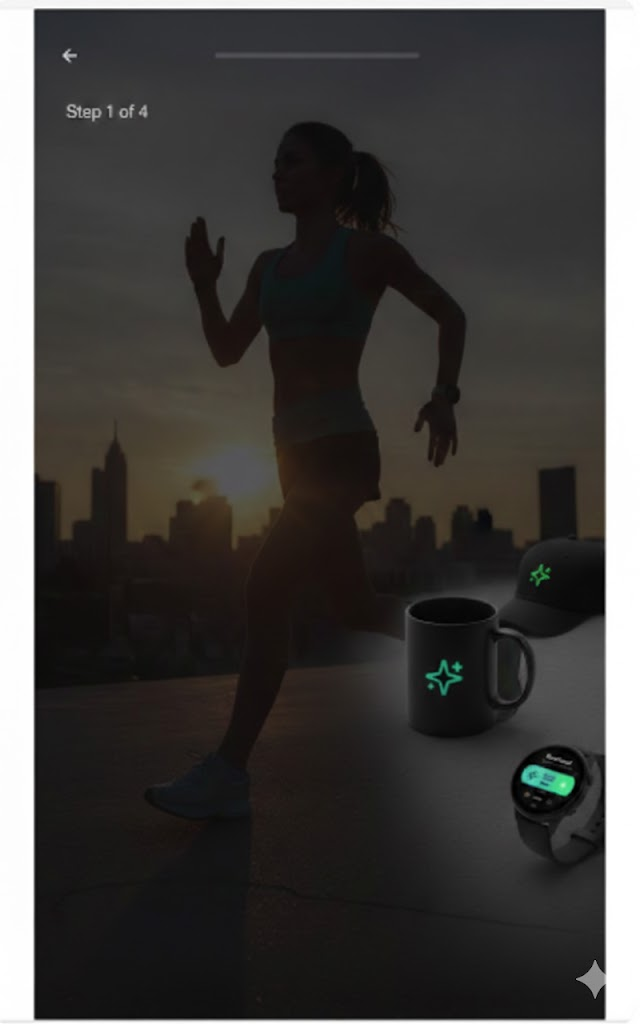
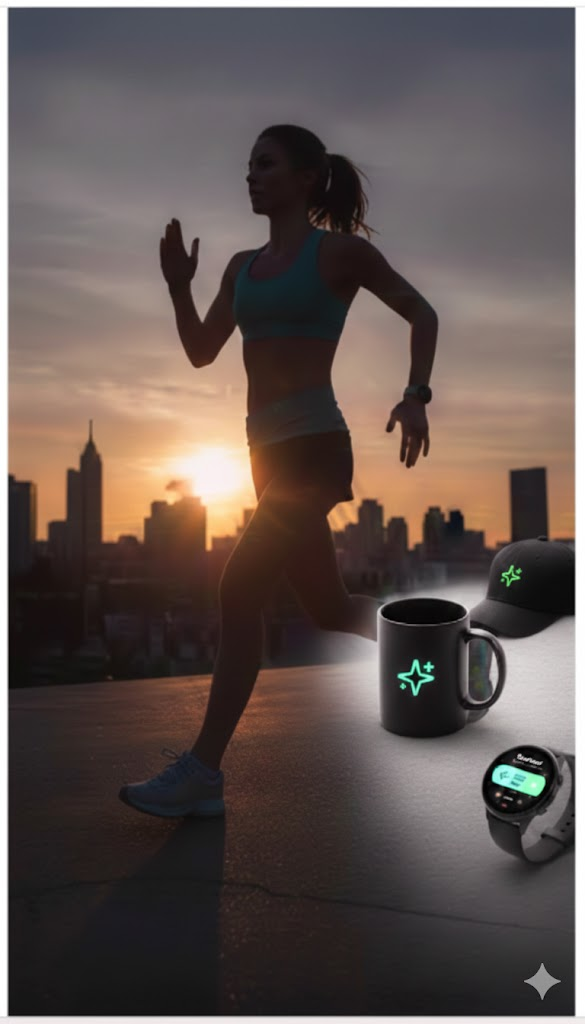
fix: resolve four UI/UX issues across app screens
- Today page: Replace WorkoutPhasesCompact with WorkoutPhasesDisplay for
  consistent card-style workout breakdown matching Plan page
- Profile page: Fix Edit Training Data button by correcting UserDataSettings
  props (onBack instead of open/onClose) and adding conditional rendering
- Profile page: Remove duplicate GoalProgressDashboard component
- Recovery API: Remove server-side onboarding check that failed because
  IndexedDB is client-side only
- Onboarding: Update first page design with improved layout and styling

diff --git a/v0/components/onboarding-screen.tsx b/v0/components/onboarding-screen.tsx
@@ -831,75 +831,73 @@ export function OnboardingScreen({ onComplete }: OnboardingScreenProps) {
         return (
           <div
             className={cn(
-              "flex min-h-[calc(100vh-200px)] flex-col relative px-6",
+              "flex min-h-[calc(100vh-200px)] flex-col relative px-8",
               manrope.className
             )}
-            style={{ paddingTop: 'max(2.5rem, env(safe-area-inset-top, 2.5rem))' }}
+            style={{ paddingTop: 'max(3rem, env(safe-area-inset-top, 3rem))' }}
           >
-            <div className="flex items-center gap-3 text-white/80">
-              <Button
-                variant="ghost"
-                size="icon"
-                className="text-white/70 hover:text-white hover:bg-white/10 -ml-2"
-                onClick={prevStep}
-                disabled={currentStep === 1}
-                aria-label="Go back"
-              >
-                <ArrowLeft className="h-5 w-5" />
-              </Button>
-              <div className="flex-1 flex items-center justify-center">
-                <div className="h-1 w-28 bg-white/15 rounded-full overflow-hidden">
-                  <div className="h-full w-[25%] bg-emerald-400/80" />
-                </div>
-              </div>
-              <div className="w-9" />
-            </div>
-
-            <div className="mt-3 text-white/75 text-sm font-medium">
+            {/* Step indicator - simple text */}
+            <div className="text-gray-400 text-sm uppercase tracking-wider font-medium">
               Step 1 of 4
             </div>
 
-            {/* Main content */}
-            <div className="flex flex-col items-start space-y-7 pb-4 mt-8">
-              {/* Headline */}
-              <div className="space-y-4 max-w-[18rem]">
-                <h1
-                  className={cn(
-                    "text-[42px] leading-[1.05] uppercase italic text-white tracking-[0.03em]",
-                    bebas.className
-                  )}
-                >
-                  LET'S CRUSH YOUR NEXT GOAL.
-                </h1>
-                <p className="text-white/80 text-lg font-medium tracking-wide">
-                  Tell me about your running style
-                </p>
-              </div>
+            {/* Main headline section */}
+            <div className="mt-12 space-y-4">
+              <h1
+                className={cn(
+                  "text-[52px] leading-[1.0] uppercase italic text-white font-black tracking-tight",
+                  bebas.className
+                )}
+                style={{
+                  textShadow: '0 2px 20px rgba(0,0,0,0.5)',
+                  letterSpacing: '-0.02em'
+                }}
+              >
+                LET'S CRUSH YOUR<br />NEXT GOAL.
+              </h1>
+              <p className="text-gray-300 text-lg font-medium">
+                Tell me about your running style
+              </p>
+            </div>
 
-              {/* Feature icons - positioned below headline */}
-              <div className="flex items-center justify-center gap-7 pt-2 w-full">
-                <div className="flex flex-col items-center gap-2">
-                  <div className="w-16 h-16 rounded-full border-2 border-emerald-400/80 bg-emerald-400/10 shadow-[0_0_18px_rgba(16,185,129,0.35)] flex items-center justify-center">
-                    <Brain className="w-7 h-7 text-emerald-400" />
-                  </div>
-                  <span className="text-white text-xs font-medium">AI Powered</span>
+            {/* Feature icons with neon glow */}
+            <div className="flex items-start justify-start gap-6 mt-10">
+              <div className="flex flex-col items-center gap-2">
+                <div
+                  className="w-14 h-14 rounded-full border-2 border-emerald-400 flex items-center justify-center bg-transparent"
+                  style={{
+                    filter: 'drop-shadow(0 0 8px rgba(34, 197, 94, 0.6))',
+                  }}
+                >
+                  <Brain className="w-7 h-7 text-emerald-400" />
                 </div>
-                <div className="flex flex-col items-center gap-2">
-                  <div className="w-16 h-16 rounded-full border-2 border-emerald-400/80 bg-emerald-400/10 shadow-[0_0_18px_rgba(16,185,129,0.35)] flex items-center justify-center">
-                    <Calendar className="w-7 h-7 text-emerald-400" />
-                  </div>
-                  <span className="text-white text-xs font-medium">Flexible Sched</span>
+                <span className="text-[10px] text-center text-gray-300 uppercase font-bold tracking-wide">AI Powered</span>
+              </div>
+              <div className="flex flex-col items-center gap-2">
+                <div
+                  className="w-14 h-14 rounded-full border-2 border-emerald-400 flex items-center justify-center bg-transparent"
+                  style={{
+                    filter: 'drop-shadow(0 0 8px rgba(34, 197, 94, 0.6))',
+                  }}
+                >
+                  <Calendar className="w-7 h-7 text-emerald-400" />
                 </div>
-                <div className="flex flex-col items-center gap-2">
-                  <div className="w-16 h-16 rounded-full border-2 border-emerald-400/80 bg-emerald-400/10 shadow-[0_0_18px_rgba(16,185,129,0.35)] flex items-center justify-center">
-                    <Trophy className="w-7 h-7 text-emerald-400" />
-                  </div>
-                  <span className="text-white text-xs font-medium">Goal Oriented</span>
+                <span className="text-[10px] text-center text-gray-300 uppercase font-bold tracking-wide">Flexible Sched</span>
+              </div>
+              <div className="flex flex-col items-center gap-2">
+                <div
+                  className="w-14 h-14 rounded-full border-2 border-emerald-400 flex items-center justify-center bg-transparent"
+                  style={{
+                    filter: 'drop-shadow(0 0 8px rgba(34, 197, 94, 0.6))',
+                  }}
+                >
+                  <Trophy className="w-7 h-7 text-emerald-400" />
                 </div>
+                <span className="text-[10px] text-center text-gray-300 uppercase font-bold tracking-wide">Goal Oriented</span>
               </div>
             </div>
 
-            {/* Empty spacer to push content down */}
+            {/* Spacer to push branding to bottom */}
             <div className="flex-1" />
           </div>
         )
@@ -1262,17 +1260,22 @@ export function OnboardingScreen({ onComplete }: OnboardingScreenProps) {
       <div className="relative min-h-screen bg-neutral-950 text-white flex flex-col">
         {isIntroStep && (
           <div className="absolute inset-0 z-0">
-            <div
-              className="absolute inset-0 bg-cover bg-no-repeat"
+            {/* Background image */}
+            <img
+              src="/images/runsmart-intro-bg.jpg"
+              alt=""
+              className="w-full h-full object-cover opacity-60"
               style={{
-                backgroundImage: "url('/images/runsmart-intro-bg.jpg')",
-                backgroundPosition: 'right 60%',
-                backgroundSize: 'cover',
-                backgroundRepeat: 'no-repeat'
+                objectPosition: 'center 40%'
               }}
             />
-            <div className="absolute inset-0 bg-gradient-to-b from-black/55 via-black/25 to-black/70" />
-            <div className="absolute inset-0 bg-[radial-gradient(circle_at_78%_72%,rgba(16,185,129,0.18),transparent_55%)]" />
+            {/* Gradient overlay - dark at bottom, lighter at top */}
+            <div
+              className="absolute inset-0"
+              style={{
+                background: 'linear-gradient(to bottom, rgba(0,0,0,0.4) 0%, rgba(0,0,0,0.8) 100%)'
+              }}
+            />
           </div>
         )}
 
@@ -1318,21 +1321,21 @@ export function OnboardingScreen({ onComplete }: OnboardingScreenProps) {
 
         {/* Branding with logo - positioned at bottom for intro step */}
         {isIntroStep && (
-          <div className={cn("relative z-10 flex flex-col items-center space-y-2 pb-5 px-6", manrope.className)}>
-            {/* RunSmart logo icon (transparent background) */}
-            <div className="relative w-20 h-20 drop-shadow-[0_10px_18px_rgba(16,185,129,0.35)]">
+          <div className={cn("relative z-10 flex flex-col items-center space-y-3 pb-8 px-6", manrope.className)}>
+            {/* RunSmart logo icon */}
+            <div className="relative w-16 h-16">
               <img
-                src="/images/runsmart-logo-2.png"
+                src="/images/runsmart-logo-1.png"
                 alt="RunSmart Logo"
                 className="w-full h-full object-contain"
               />
             </div>
 
             {/* RunSmart text */}
-            <h2 className={cn("text-white text-3xl font-semibold italic tracking-wide", bebas.className)}>
+            <h2 className={cn("text-white text-3xl font-bold italic tracking-tight", bebas.className)}>
               RunSmart
             </h2>
-            <p className="text-white/70 text-xs font-medium tracking-wide">
+            <p className="text-gray-400 text-sm">
               Your AI Running Coach
             </p>
           </div>
@@ -1340,17 +1343,17 @@ export function OnboardingScreen({ onComplete }: OnboardingScreenProps) {
 
         <div
           className={cn(
-            "px-4 pt-3 relative z-10",
+            "px-8 pt-3 relative z-10",
             isIntroStep ? "bg-transparent" : "bg-neutral-950"
           )}
-          style={{ paddingBottom: 'max(1.5rem, env(safe-area-inset-bottom, 1.5rem))' }}
+          style={{ paddingBottom: 'max(2.5rem, env(safe-area-inset-bottom, 2.5rem))' }}
         >
           <Button
             type="button"
             className={cn(
-              "w-full h-[58px] font-bold text-[17px] rounded-2xl transition-all duration-200",
+              "w-full h-[58px] font-bold text-xl rounded-2xl transition-all duration-200 shadow-lg",
               isIntroStep
-                ? "bg-[#0EA5E9] text-neutral-950 hover:bg-[#0EA5E9]/90 hover:shadow-2xl hover:scale-[1.02] active:scale-100"
+                ? "bg-blue-500 text-white hover:bg-blue-600 active:scale-[0.98]"
                 : "bg-white text-neutral-950 hover:bg-white/95 hover:shadow-2xl hover:scale-[1.02] active:scale-100"
             )}
             onClick={isFinalStep ? handleComplete : nextStep}

diff --git a/v0/components/profile-screen.tsx b/v0/components/profile-screen.tsx
@@ -53,7 +53,6 @@ import { JoinCohortModal } from "@/components/join-cohort-modal";
 import { CommunityStatsWidget } from "@/components/community-stats-widget";
 import { CoachingInsightsWidget } from "@/components/coaching-insights-widget";
 import { CoachingPreferencesSettings } from "@/components/coaching-preferences-settings";
-import { GoalProgressDashboard } from "@/components/goal-progress-dashboard";
 import { PerformanceAnalyticsDashboard } from "@/components/performance-analytics-dashboard";
 import { Brain, Target, GitMerge, Star } from "lucide-react";
 import { PlanTemplateFlow } from "@/components/plan-template-flow";
@@ -1043,16 +1042,6 @@ export function ProfileScreen() {
             </Card>
           ) : null}
 
-          {/* Goal Progress */}
-          {userId && (
-            <div data-section="goal-progress">
-              <GoalProgressDashboard
-                userId={userId}
-                className="hover:shadow-lg transition-all duration-300"
-              />
-            </div>
-          )}
-
           {/* Community Stats Widget */}
           {userId && <CommunityStatsWidget userId={userId} />}
 
@@ -1374,13 +1363,14 @@ export function ProfileScreen() {
             />
           )}
 
-          {userId && (
-            <UserDataSettings
-              userId={userId}
-              open={showUserDataModal}
-              onClose={() => setShowUserDataModal(false)}
-              onSave={refreshContext}
-            />
+          {showUserDataModal && userId && (
+            <div className="fixed inset-0 z-50 bg-background">
+              <UserDataSettings
+                userId={userId}
+                onBack={() => setShowUserDataModal(false)}
+                onSave={refreshContext}
+              />
+            </div>
           )}
 
           {/* Coaching Preferences Modal */}

diff --git a/v0/app/api/recovery/recommendations/route.ts b/v0/app/api/recovery/recommendations/route.ts
@@ -2,7 +2,6 @@ import { NextRequest, NextResponse } from 'next/server';
 import { RecoveryEngine } from '../../../../lib/recoveryEngine';
 import { PersonalizationContextBuilder } from '../../../../lib/personalizationContext';
 import { SubscriptionGate, ProFeature } from '../../../../lib/subscriptionGates';
-import { dbUtils } from '../../../../lib/dbUtils';
 import { logger } from '@/lib/logger';
 
 // Force dynamic rendering for this route
@@ -40,28 +39,6 @@ export async function GET(request: NextRequest) {
         },
         { status: 403 }
       );
-    }
-
-    // Check if onboarding is complete
-    const user = await dbUtils.getUser(userId);
-    if (!user || !user.onboardingComplete) {
-      return NextResponse.json({
-        success: true,
-        data: {
-          recommendations: ['Complete onboarding to unlock personalized recovery recommendations'],
-          recoveryScore: 50,
-          confidence: 0,
-          isOnboarding: true,
-          breakdown: {
-            sleepScore: 50,
-            hrvScore: 50,
-            restingHRScore: 50,
-            subjectiveWellnessScore: 50,
-            trainingLoadImpact: 0,
-            stressLevel: 50,
-          },
-        },
-      });
     }
 
     // Get current recovery score

diff --git a/v0/components/today-screen.tsx b/v0/components/today-screen.tsx
@@ -31,7 +31,7 @@ import ModalErrorBoundary from "@/components/modal-error-boundary"
 import { type Workout, type Route, type Goal, resetDatabaseInstance } from "@/lib/db"
 import { dbUtils, getUserPaceZones } from "@/lib/dbUtils"
 import { useData, useGoalProgress } from "@/contexts/DataContext"
-import { WorkoutPhasesCompact } from "@/components/workout-phases-display"
+import { WorkoutPhasesDisplay } from "@/components/workout-phases-display"
 import { generateStructuredWorkout, type StructuredWorkout } from "@/lib/workout-steps"
 import { getDefaultPaceZones } from "@/lib/pace-zones"
 import { GoalProgressEngine, type GoalProgress } from "@/lib/goalProgressEngine"
@@ -697,7 +697,7 @@ export function TodayScreen() {
                     Workout Phases
                   </h4>
                   {structuredWorkout ? (
-                    <WorkoutPhasesCompact workout={structuredWorkout} darkMode />
+                    <WorkoutPhasesDisplay workout={structuredWorkout} darkMode />
                   ) : (
                     <div className="space-y-2">
                       <div className="flex items-center gap-3">
